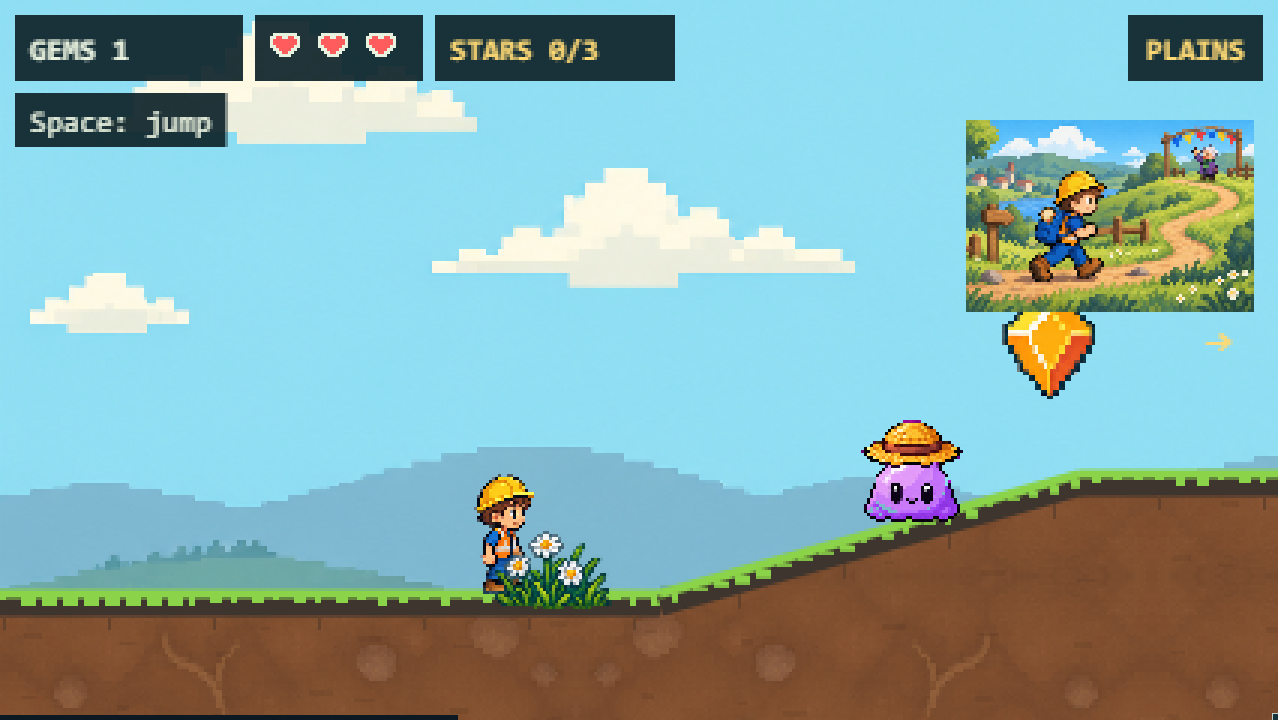
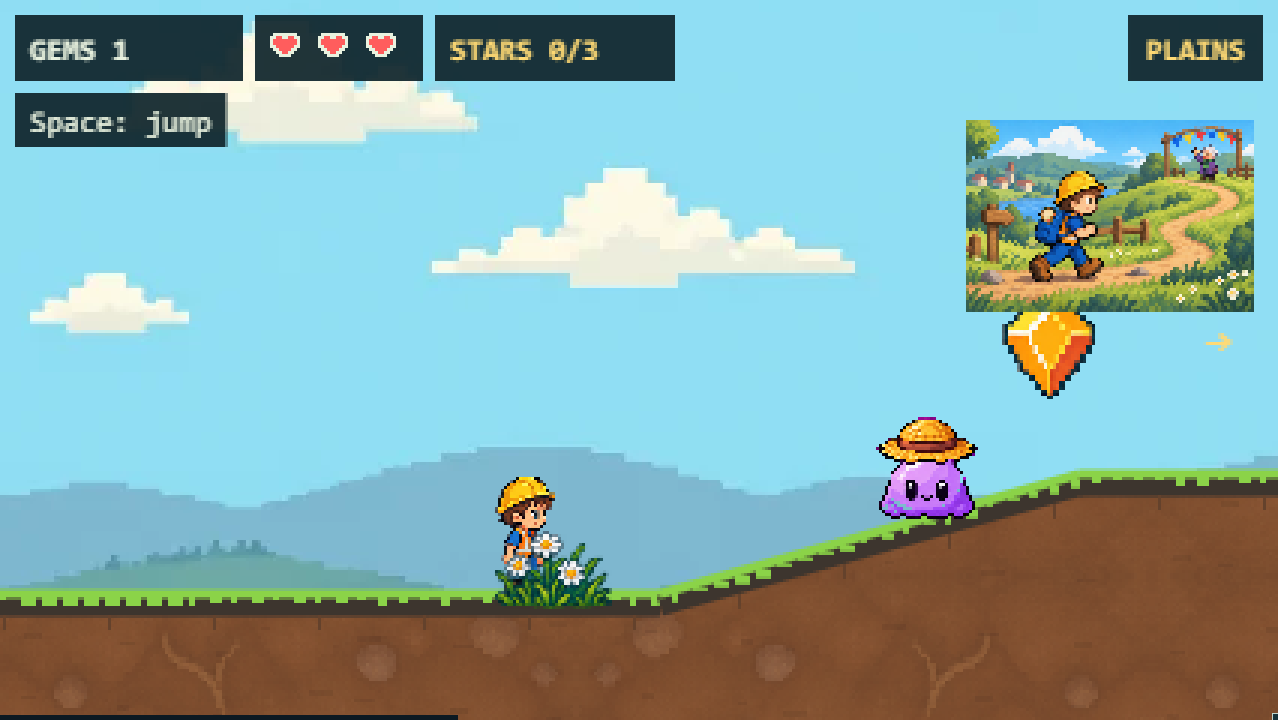
docs: refresh slime evidence after main integration

diff --git a/docs/evidence/issue-143/README.md b/docs/evidence/issue-143/README.md
@@ -23,7 +23,7 @@ The common body, outlines and accessories were inspected against every biome.
 
 ## Verification
 
-- `npm test`: 546 tests passed across 32 files.
+- `npm test`: 551 tests passed across 33 files after integrating current main.
 - `npm run typecheck` and `npm run build`: passed.
 - Focused browser checks: all six costumes draw the shared atlas, patrol while
   Henry stands still, freeze during pause, resume, and recover from atlas-load
@@ -33,6 +33,11 @@ The common body, outlines and accessories were inspected against every biome.
 - Independent sub-agent review: no actionable findings; 141 focused unit tests
   independently passed. Snorkel overlay alignment was adjusted after visual
   inspection so the original eyes sit within the mask openings.
+- A second independent review checked the merge with the incoming asset
+  optimization and retry fix; no findings. Optional decorative sheets retain
+  their fallbacks while the shared slime atlas stays required and retryable.
+- The final snorkel placement and atlas pixel checks passed in Chromium and
+  WebKit (four checks), and the screenshots were refreshed after integration.
 
 Local Firefox testing is blocked before page launch: the Playwright Firefox
 155 executable reports a Windows side-by-side configuration error, including
